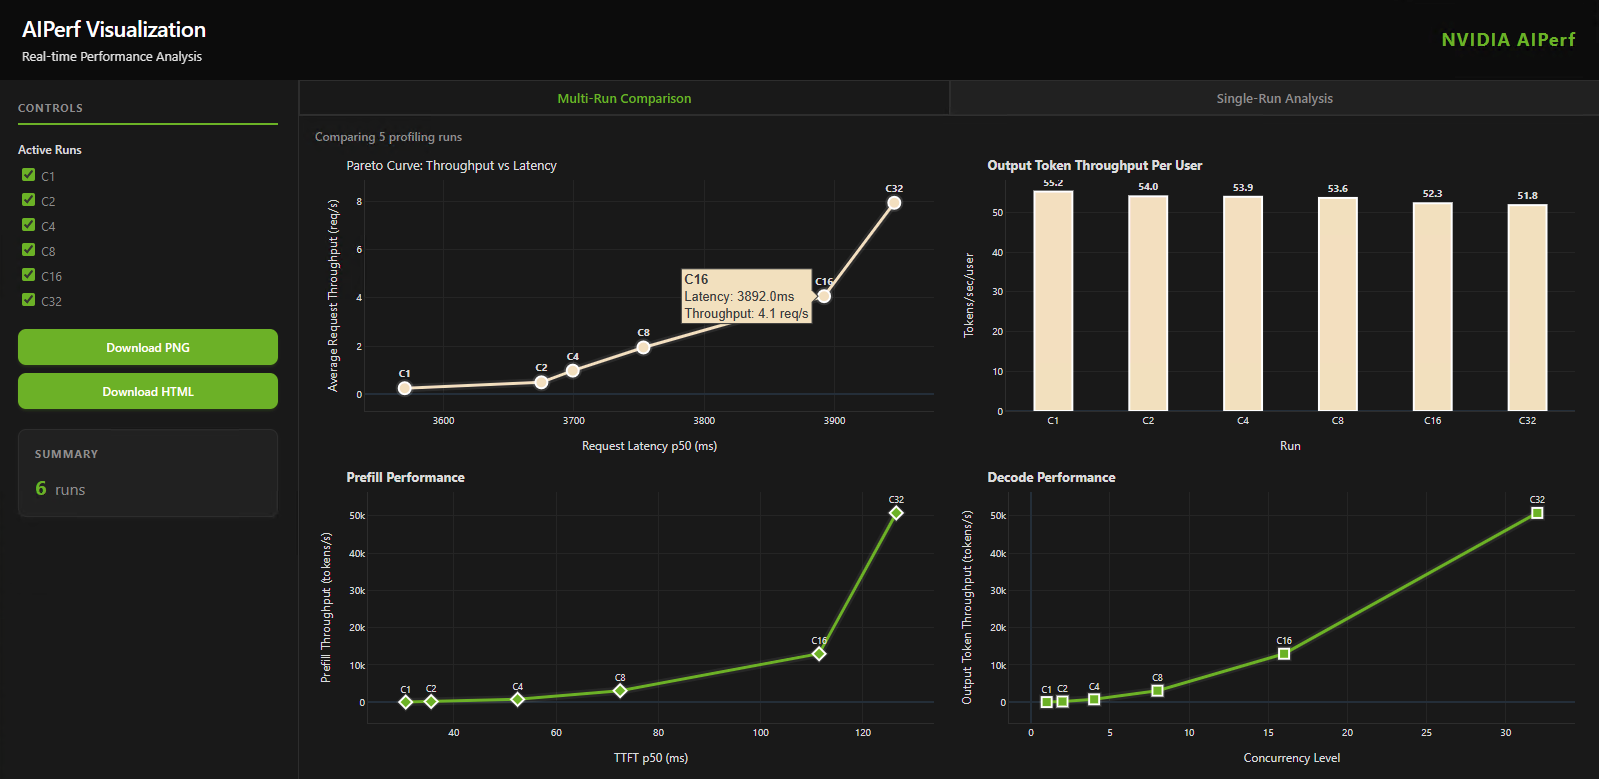
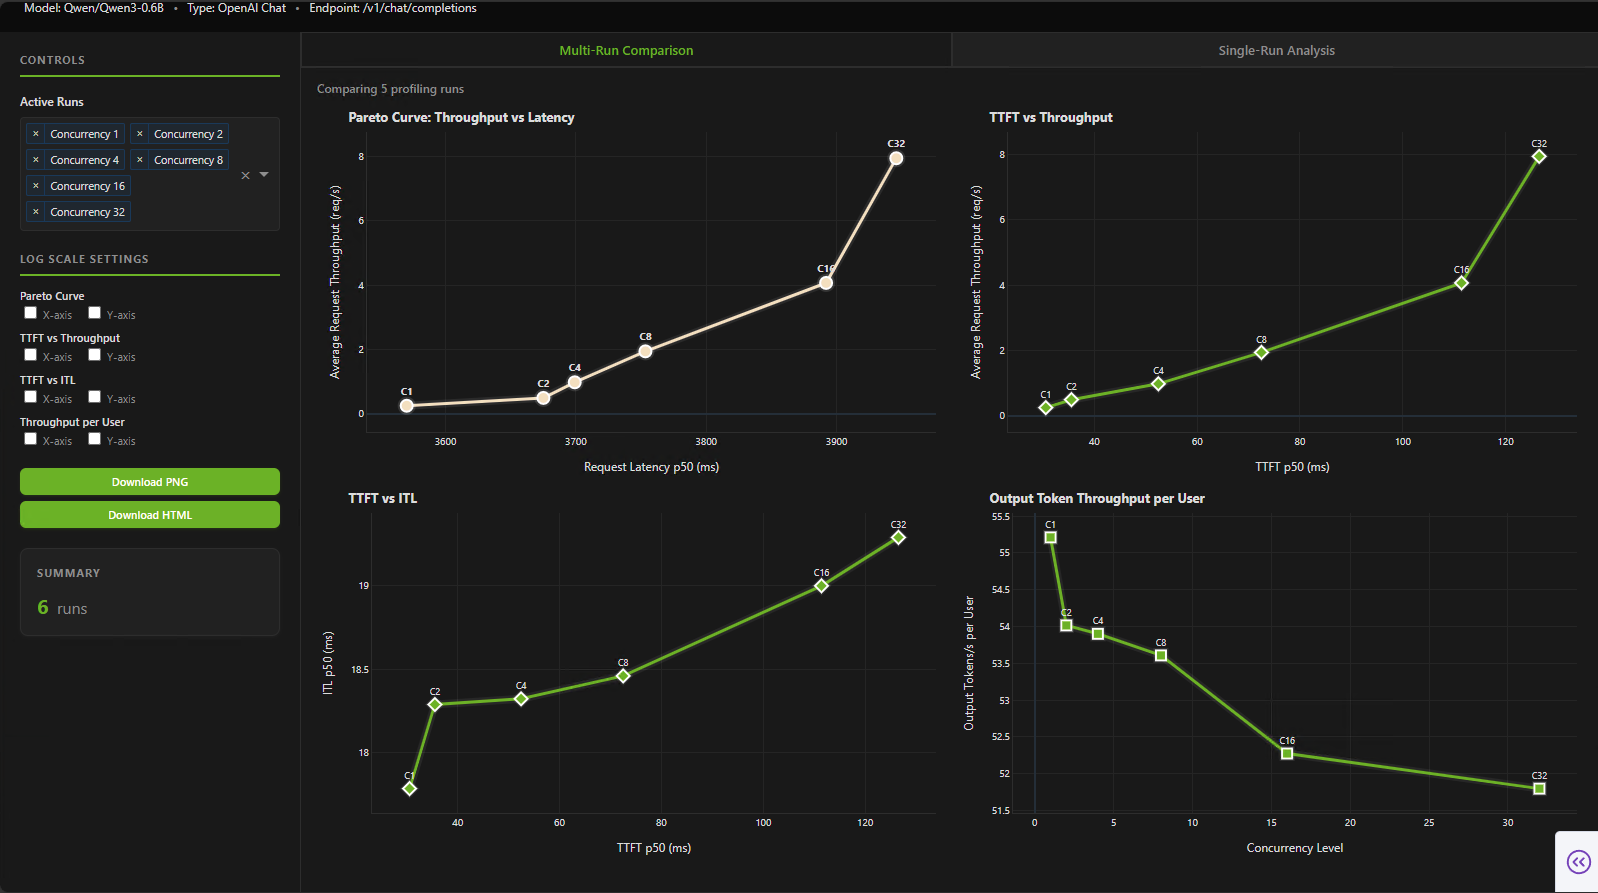
minor edits to AIP-0003 visualization doc and images

diff --git a/deps/AIP-0003-visualization.md b/deps/AIP-0003-visualization.md
@@ -1,4 +1,4 @@
-# Dynamo AIPerf Analyze and Visualize For Profiling Sweeps
+# Dynamo AIPerf Visualization Feature and Plot Command
 
 **Status**: Draft
 
@@ -26,34 +26,43 @@ Introduce `aiperf plot` command to generate static and interactive visualization
 
 # Motivation
 
-Users frequently run profiling experiments across multiple configurations to understand performance trade-offs. Currently, there is no built-in way to visualize AIPerf results, forcing users to manually export data and use external tools to create plots.
+Users frequently run profiling experiments across multiple configurations to understand performance trade-offs. Currently, there is no built-in way to visualize AIPerf results, so users have to use external tools to create plots.
 
 Common visualization needs include:
-1. **Comparing multiple runs** - Understanding how different configurations (concurrency, model size, etc.) affect performance
-2. **Analyzing single runs** - Identifying anomalies, warmup effects, and performance trends over time
+1. **Comparing multiple runs** - Understanding how different configurations (concurrency, model size, etc.) affect performance.
+2. **Analyzing single runs** - Identifying anomalies, warmup effects, and performance trends over time.
 
 AIPerf can significantly improve the user experience by providing built-in visualization capabilities that work seamlessly with existing profiling workflows.
 
 ## Goals
 
-* Support static artifact generation (PNG)
-* Support comparing multiple profiling runs side-by-side
-* Enable deep-dive analysis of single runs with time series and distribution plots
-* Allow users to configure which plots are generated by default
-* Provide interactive visualizations where users can dynamically select metrics and plot types in the browser
+* Support static artifact generation as default (PNG).
+* Support an interactive visualization option where users can dynamically select metrics and plot types in the browser (HTML and locally hosted options).
+* Enable comparison plots of multiple profiling runs with pareto curves, scatter/line plots.
+* Enable deep-dive analysis of single runs with time series and distribution plots.
+* Allow users to configure which plots are generated by default and also customize their own plot presets.
 
 ## Non Goals
 
-* Real-time visualization during profiling (plots are generated post-profiling)
-* Integration with external databases
+* Real-time visualization during profiling (plots are generated post-profiling).
+* Integration with external databases.
 
 ### REQ 1 Input-Agnostic Visualization
 
 AIPerf **MUST** provide a `plot` command that works with result files regardless of how they were generated. The `plot` command **MUST** support multiple input modes:
-1. Default (no argument): compare and plot runs in the `./artifacts` directory 
-2. Path to a directory containing multiple runs
-3. Path to a single profile run results
-4. Multiple paths to individual profile run results (for manual comparison, assuming they are located in different directories)
+1. Default (no argument): compare and plot runs in the `./artifacts` directory.
+2. One path to a directory containing multiple runs.
+3. One path to a single profile run.
+4. Multiple paths to individual profile runs (for manual comparison, assuming they are located in different directories).
+
+### REQ 2 Static Visualization Export
+
+AIPerf **MUST** support generating static visualization artifacts via `aiperf plot`:
+
+**Default PNG Mode:**
+- By default (no flags), `aiperf plot` **MUST** generate PNG images of all default plots as specified in user configuration (`~/.aiperf/config.yaml`)
+- PNG files **MUST** be saved to `{sweep_dir}/plots/` directory
+- A summary text file **MUST** be included listing all generated plots
 
 ### REQ 2 Static Visualization Export
 
@@ -64,38 +73,45 @@ AIPerf **MUST** support generating static visualization artifacts via `aiperf pl
 - PNG files **MUST** be saved to `{sweep_dir}/plots/` directory
 - A summary text file **MUST** be included listing all generated plots
 
-**Interactive HTML Mode (`--html`):**
-- When `--html` flag is provided, **MUST** generate a self-contained interactive HTML report
-- HTML file **MUST** embed all sweep data and enable client-side interactivity via JavaScript
-- **MUST** support dynamic axis selection, run toggling, and plot type switching entirely in the browser
-- HTML file **MUST** work offline without requiring a running server
+All formats **MUST** work with both multi-run comparisons and single-run deep-dive analysis. The mode (multi-run vs single-run) **MUST** be auto-detected based on directory structure.
+
+### REQ 3 Interactive Visualization Modes
+
+AIPerf **MUST** provide interactive visualization through two modes: HTML reports (`--html`) and live server (`--host`). Both modes **MUST** share the following core functionality:
+
+**Shared Interactive Features:**
+- **Dynamic axis selection**: Users choose any available metric for x-axis and y-axis
+- **Log scale toggles**: Enable/disable logarithmic scaling for axes
+- **Run selection**: Toggle which runs to display via checkboxes
+- **Plot type switching**: Switch between scatter, line, bar, box plots
+- **Interactive controls**: Zoom, pan, hover for detailed values (via Plotly.js)
+- **Filtering**: Apply filters on metrics and parameters
+- **Export functionality**: Download current view as PNG or save configuration
+
+**HTML Mode (`--html`) Specific Requirements:**
+- **MUST** generate a self-contained HTML file with all sweep data embedded as JSON
+- All interactivity **MUST** be client-side via JavaScript (no server required after generation)
+- **MUST** work completely offline
 - **MUST** be saved to `{sweep_dir}/visualizations/report.html`
+- Filtering and plot regeneration **MUST** operate on embedded data using JavaScript
+- Best for: sharing with team, remote environments (SLURM, K8s)
 
-All formats **MUST** work with both multi-run comparisons and single-run deep-dive analysis. The mode (multi-run vs single-run) **MUST** be auto-detected based on arguments or directory structure.
-
-### REQ 3 Interactive Server Mode
-
-AIPerf **MUST** provide an interactive web-based visualization server via `aiperf plot --host`. The server **MUST**:
-
-**Core Functionality:**
-- Launch a local web server (default port 8080) using Plotly Dash
-- Support **dynamic axis selection**: Users choose any available metric for x-axis and y-axis with plots updating server-side
-- Support **Log scale toggles** for x-axis and y-axis
-- Support **run selection**: Toggle which runs to display via checkboxes
-- Support **plot type switching**: Switch between scatter, line, bar, box plots with server-side regeneration
-- Support **interactive controls**: Zoom, pan, hover for detailed values (via Plotly.js)
-- Support **filtering**: Apply complex filters on metrics and parameters with server-side data processing
-- Provide **export functionality**: Download current view as PNG or HTML
-
-**Requirements:**
-- **MUST** run locally without requiring external services or internet connectivity
-- **MUST** use the same shared components as PNG and HTML modes where possible
-- **MUST** respect user configuration for default plots from `~/.aiperf/config.yaml`
-- **MUST** support both sweep comparison mode and single-run time-series analysis mode
+**Server Mode (`--host`) Specific Requirements:**
+- **MUST** launch a local web server (default port 8080) using Plotly Dash
+- All plot regeneration and filtering **MUST** be server-side using Python
+- **MUST** support complex filters with Python logic and server-side data processing
+- **MUST** provide lazy loading for efficient handling of large datasets (100+ runs)
+- **SHOULD** support `--watch` flag to monitor directory for new runs and update automatically
 - **SHOULD** provide URL output (e.g., `http://localhost:8080`) upon successful startup
 - **MUST** allow graceful shutdown via Ctrl+C
+- Best for: active exploratory analysis, large sweeps, complex computations
 
-The interactive server mode is intended for active exploratory analysis on local machines or remote environments where maximum flexibility is required.
+**Shared Requirements for Both Modes:**
+- **MUST** run locally without requiring external services or internet connectivity
+- **MUST** use the same shared components for loading and plotting data as PNG mode for consistency
+- **MUST** respect user configuration for default plots from `~/.aiperf/config.yaml`
+- **MUST** support both multi-run comparison mode and single-run time-series analysis mode
+- **MUST** auto-detect mode based on directory structure
 
 ### REQ 4 Comprehensive Metric Support
 
@@ -104,7 +120,7 @@ The visualization system **MUST** support all currently available metrics in AIP
 ### REQ 5 Essential Plot Types
 
 The system **MUST** provide the following essential visualizations:
-- **Comparison plots**: Pareto curves, metric vs parameter, distribution comparisons
+- **Comparison plots**: Pareto curves, metric vs metric (ex: latency vs throughput), metric vs parameter (ex: output token throughput per user vs concurrency), distribution comparisons
 - **Time series plots**: Per-request metrics over time 
   - **Future: Time slicing plots**: Per-time-slice metrics over time 
 
@@ -113,8 +129,6 @@ Users **SHOULD** be able to configure which plots are generated by default in bo
 # Proposal
 
 ## Plot Command
-
-**Design Principle**: Plot is **input-agnostic** - it works with any result files regardless of how they were generated.
 
 Generates visualizations from stored results. Automatically detects whether to show multi-run comparison or single-run analysis:
 ```bash
@@ -185,8 +199,9 @@ The plot command automatically detects visualization content based on input:
 ### Multi-Run Comparison Mode
 
 When multiple runs are detected, generates comparison visualizations. For example:
-- Pareto curve (throughput vs latency trade-offs)
-- Performance comparisons across swept parameters
+- Pareto curve (throughput vs request latency)
+- TTFT (Time to First Token) versus Average Request Throughput
+- TTFT versus ITL (Inter-token Latency)
 
 Default plots configurable via `~/.aiperf/config.yaml` (see Configuration section).
 
@@ -196,7 +211,7 @@ When a single run is detected, generates time-series visualizations:
 - TTFT (Time to First Token) per request over time
 - ITL (Inter-token Latency) per request over time
 - End-to-end latency per request over time
-- Throughput over time (rolling window)
+- Throughput over time
 - GPU memory and utilization over time (if available)
 
 Default plots configurable via `~/.aiperf/config.yaml` (see Configuration section).
@@ -211,10 +226,10 @@ visualization:
     # MULTI RUN COMPARISON: Default plots when comparing multiple runs
     # =============================================================================
     multi_run_defaults:
-      - pareto_curve
-      - output_token_per_user_vs_concurrency
-      - ttft_vs_prefill_throughput
-      - output_token_throughput_vs_concurrency
+      - pareto_curve_latency_vs_throughput
+      - ttft_vs_throughput
+      - ttft_vs_itl
+      - output_token_throughput_per_user_vs_concurrency
 
     # =============================================================================
     # SINGLE RUN: Default plots for analyzing one run over time
@@ -229,7 +244,7 @@ visualization:
     # MULTI RUN COMPARISON PRESETS
     # =============================================================================
     multi_run_plots:
-      pareto_curve:
+      pareto_curve_latency_vs_throughput:
         name: "Pareto Curve"
         description: "Throughput vs latency trade-offs across concurrency levels"
         x: request_latency_p50
@@ -238,25 +253,25 @@ visualization:
         labels: concurrency
         highlight_pareto: true
 
-      output_token_per_user_vs_concurrency:
-        name: "Output Token Throughput Per User"
+      ttft_vs_throughput:
+        name: "TTFT vs Throughput"
+        description: "Time to first token vs request throughput across concurrency levels"
+        x: ttft_p50
+        y: request_throughput
+        labels: concurrency
+
+      ttft_vs_itl:
+        name: "TTFT vs ITL"
+        description: "Time to first token vs inter-token latency"
+        x: ttft_p50
+        y: inter_token_latency_p50
+        labels: concurrency
+
+      output_token_throughput_per_user_vs_concurrency:
+        name: "Output Token Throughput per User"
         description: "Per-user output token throughput at different concurrency levels"
         x: concurrency
         y: output_token_throughput_per_user
-        type: bar
-
-      ttft_vs_prefill_throughput:
-        name: "Prefill Performance"
-        description: "Time to first token vs prefill throughput"
-        x: ttft_p50
-        y: prefill_throughput
-        labels: concurrency
-
-      output_token_throughput_vs_concurrency:
-        name: "Decode Performance"
-        description: "Output token throughput scaling with concurrency"
-        x: concurrency
-        y: output_token_throughput
         labels: concurrency
 
     # =============================================================================
@@ -295,10 +310,10 @@ visualization:
         y: request_throughput
         type: area
 ```
-**[EXAMPLE SCREENSHOT: Interactive Dashboard - Multi Run Comparison Mode]**
+**[Interactive Dashboard - Multi Run Comparison Mode]**
 ![Example: Multi Run Comparison Dashboard](./AIP-0003_images/dashboard-multirun.png)
 
-**[EXAMPLE SCREENSHOT: Interactive Dashboard - Single Run Time Series]**
+**[Interactive Dashboard - Single Run Analysis]**
 ![Example: Single Run Time Series Dashboard](./AIP-0003_images/dashboard-singlerun.png)
 
 # Implementation
@@ -309,7 +324,7 @@ All three visualization modes share core components for consistency and maintain
 ```
 ┌────────────────────────────────────────────────────────────────────┐
 │                         User Command                               │
-│  aiperf plot ./results [--html | --host | default]                │
+│  aiperf plot ./results [--html | --host | default]                 │
 └─────────────────────────────┬──────────────────────────────────────┘
                               │
                 ┌─────────────┴─────────────┐
